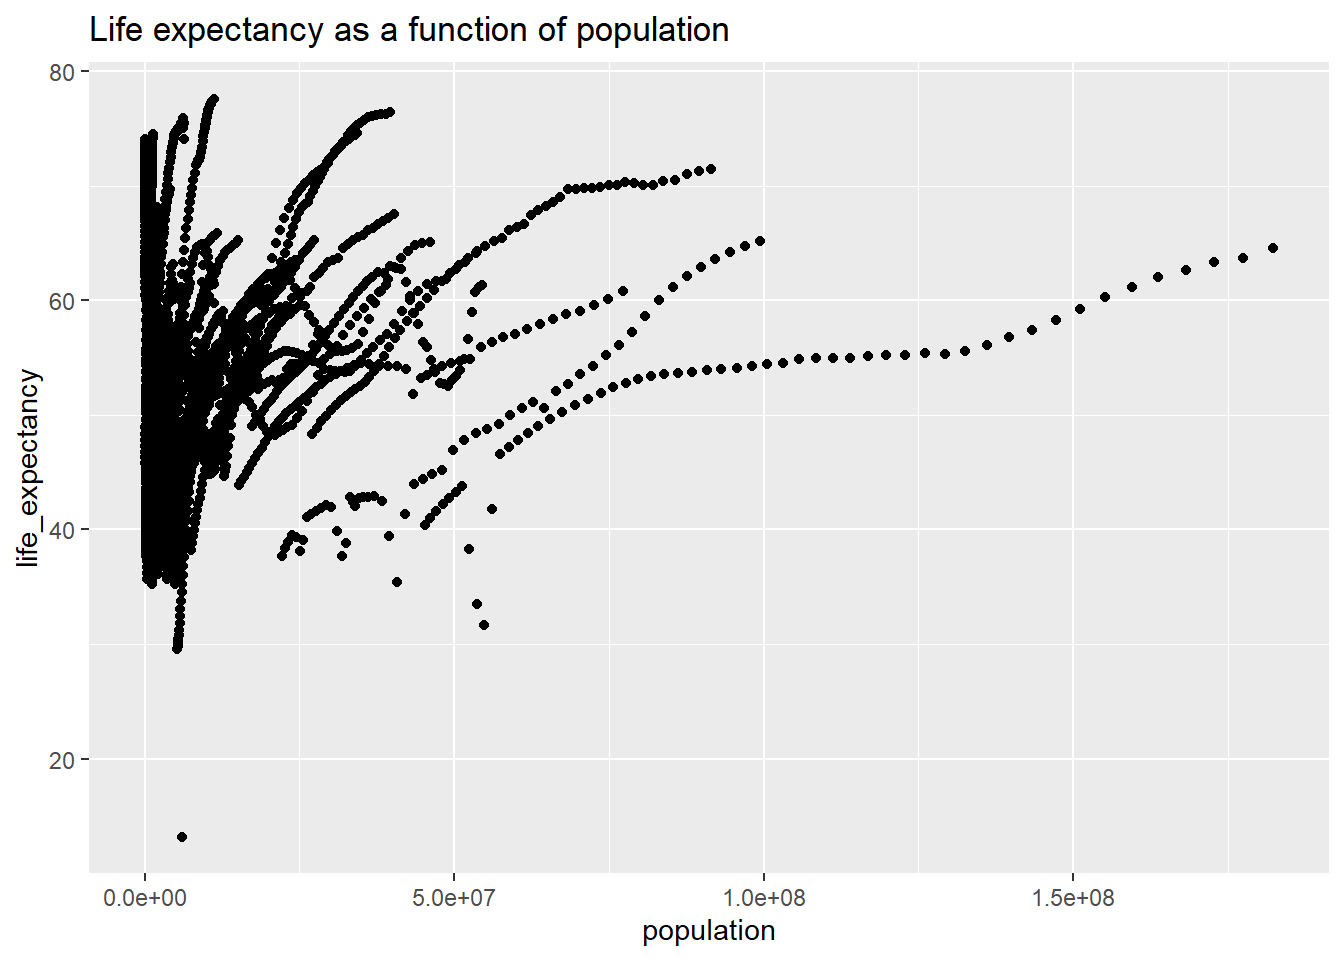
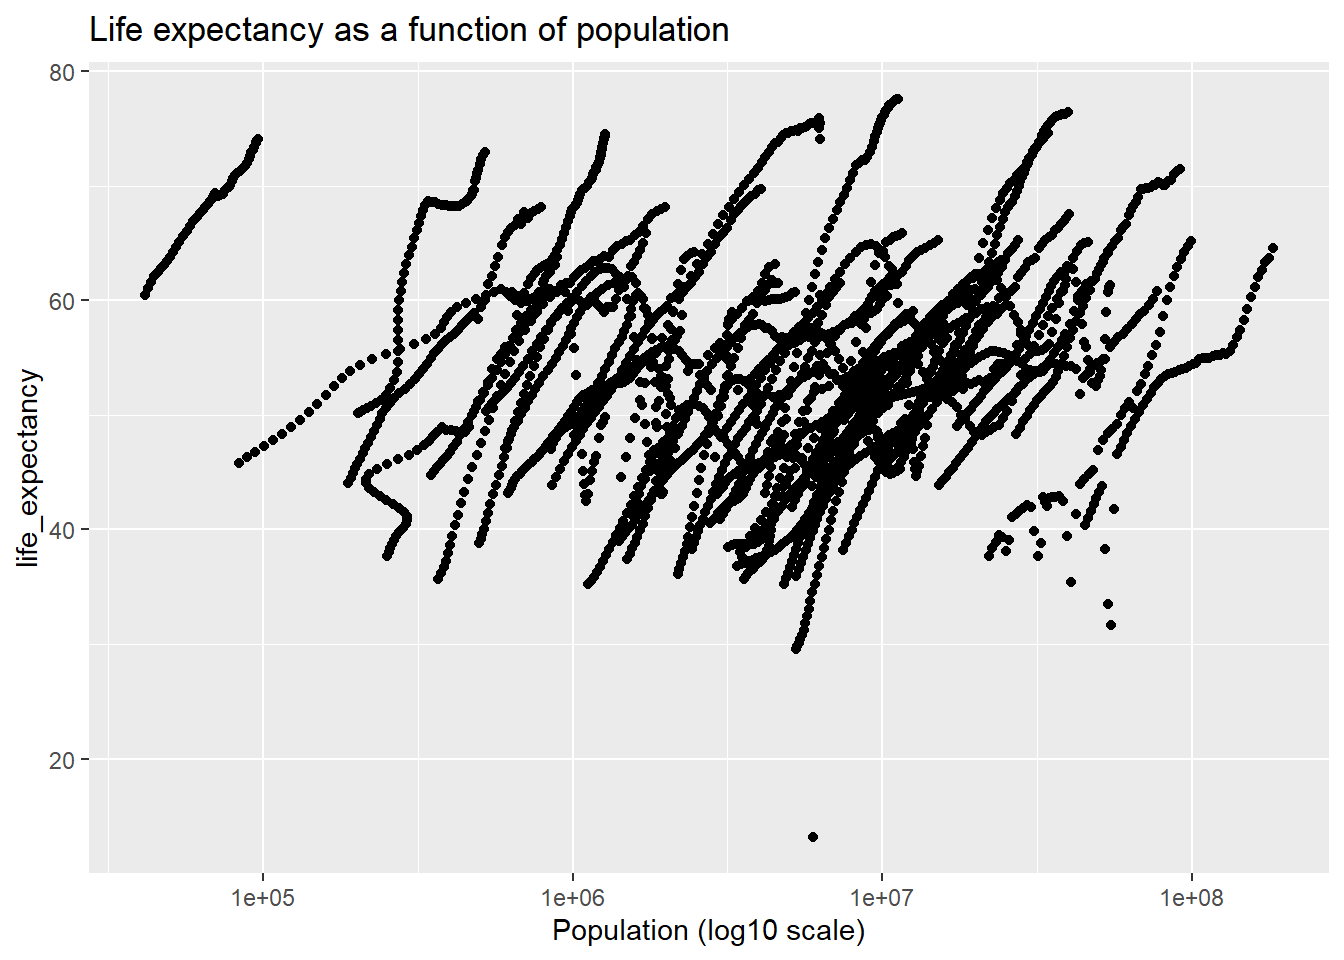
Module 3 part 1, correcting population figures to have log scale for x-axis

diff --git a/docs/coding-exercise/coding-exercise.html b/docs/coding-exercise/coding-exercise.html
@@ -364,8 +364,8 @@ pre > code.sourceCode > span > a:first-child::before { text-decoration: underlin
 </div>
 </div>
 <div class="sourceCode cell-code" id="cb25"><pre class="sourceCode r code-with-copy"><code class="sourceCode r"><span id="cb25-1"><a href="#cb25-1" aria-hidden="true" tabindex="-1"></a><span class="co">#Plotting life expectancy as a function of population</span></span>
-<span id="cb25-2"><a href="#cb25-2" aria-hidden="true" tabindex="-1"></a><span class="fu">ggplot</span>(<span class="at">data=</span>obj2, <span class="fu">aes</span>(<span class="at">x =</span> population, <span class="at">y =</span> life_expectancy)) <span class="sc">+</span> <span class="fu">geom_point</span>() <span class="sc">+</span> </span>
-<span id="cb25-3"><a href="#cb25-3" aria-hidden="true" tabindex="-1"></a>  <span class="fu">labs</span>(<span class="at">title =</span> <span class="st">"Life expectancy as a function of population"</span>)</span></code><button title="Copy to Clipboard" class="code-copy-button"><i class="bi"></i></button></pre></div>
+<span id="cb25-2"><a href="#cb25-2" aria-hidden="true" tabindex="-1"></a><span class="fu">ggplot</span>(<span class="at">data=</span>obj2, <span class="fu">aes</span>(<span class="at">x =</span> population, <span class="at">y =</span> life_expectancy)) <span class="sc">+</span> <span class="fu">geom_point</span>() <span class="sc">+</span>  <span class="fu">scale_x_continuous</span>(<span class="at">trans=</span><span class="st">'log10'</span>) <span class="sc">+</span> </span>
+<span id="cb25-3"><a href="#cb25-3" aria-hidden="true" tabindex="-1"></a>  <span class="fu">labs</span>(<span class="at">title =</span> <span class="st">"Life expectancy as a function of population"</span>, <span class="at">x =</span> <span class="st">"Population (log10 scale)"</span>)</span></code><button title="Copy to Clipboard" class="code-copy-button"><i class="bi"></i></button></pre></div>
 <div class="cell-output cell-output-stderr">
 <pre><code>Warning: Removed 51 rows containing missing values or values outside the scale range
 (`geom_point()`).</code></pre>
@@ -399,8 +399,8 @@ pre > code.sourceCode > span > a:first-child::before { text-decoration: underlin
 </div>
 <div class="sourceCode cell-code" id="cb29"><pre class="sourceCode r code-with-copy"><code class="sourceCode r"><span id="cb29-1"><a href="#cb29-1" aria-hidden="true" tabindex="-1"></a><span class="co">#Plotting life expectancy as a function of population</span></span>
 <span id="cb29-2"><a href="#cb29-2" aria-hidden="true" tabindex="-1"></a><span class="fu">ggplot</span>(<span class="at">data=</span>africadata, <span class="fu">aes</span>(<span class="at">x =</span> population, <span class="at">y =</span> life_expectancy)) <span class="sc">+</span> </span>
-<span id="cb29-3"><a href="#cb29-3" aria-hidden="true" tabindex="-1"></a>  <span class="fu">geom_point</span>(<span class="fu">aes</span>(<span class="at">color =</span> country)) <span class="sc">+</span> </span>
-<span id="cb29-4"><a href="#cb29-4" aria-hidden="true" tabindex="-1"></a>  <span class="fu">labs</span>(<span class="at">title =</span> <span class="st">"Life expectancy as a function of population"</span>)</span></code><button title="Copy to Clipboard" class="code-copy-button"><i class="bi"></i></button></pre></div>
+<span id="cb29-3"><a href="#cb29-3" aria-hidden="true" tabindex="-1"></a>  <span class="fu">geom_point</span>(<span class="fu">aes</span>(<span class="at">color =</span> country)) <span class="sc">+</span> <span class="fu">scale_x_continuous</span>(<span class="at">trans=</span><span class="st">'log10'</span>) <span class="sc">+</span> </span>
+<span id="cb29-4"><a href="#cb29-4" aria-hidden="true" tabindex="-1"></a>  <span class="fu">labs</span>(<span class="at">title =</span> <span class="st">"Life expectancy as a function of population"</span>, <span class="at">x =</span> <span class="st">"Population (log10 scale)"</span>)</span></code><button title="Copy to Clipboard" class="code-copy-button"><i class="bi"></i></button></pre></div>
 <div class="cell-output cell-output-stderr">
 <pre><code>Warning: Removed 51 rows containing missing values or values outside the scale range
 (`geom_point()`).</code></pre>
@@ -541,8 +541,8 @@ pre > code.sourceCode > span > a:first-child::before { text-decoration: underlin
 </div>
 <div class="sourceCode cell-code" id="cb41"><pre class="sourceCode r code-with-copy"><code class="sourceCode r"><span id="cb41-1"><a href="#cb41-1" aria-hidden="true" tabindex="-1"></a><span class="co">#Plotting life expectancy as a function of population</span></span>
 <span id="cb41-2"><a href="#cb41-2" aria-hidden="true" tabindex="-1"></a><span class="fu">ggplot</span>(<span class="at">data=</span>yr2000, <span class="fu">aes</span>(<span class="at">x =</span> population, <span class="at">y =</span> life_expectancy)) <span class="sc">+</span> </span>
-<span id="cb41-3"><a href="#cb41-3" aria-hidden="true" tabindex="-1"></a>  <span class="fu">geom_point</span>() <span class="sc">+</span> </span>
-<span id="cb41-4"><a href="#cb41-4" aria-hidden="true" tabindex="-1"></a>  <span class="fu">labs</span>(<span class="at">title =</span> <span class="st">"Life expectancy as a function of population in 2000"</span>)</span></code><button title="Copy to Clipboard" class="code-copy-button"><i class="bi"></i></button></pre></div>
+<span id="cb41-3"><a href="#cb41-3" aria-hidden="true" tabindex="-1"></a>  <span class="fu">geom_point</span>() <span class="sc">+</span>  <span class="fu">scale_x_continuous</span>(<span class="at">trans=</span><span class="st">'log10'</span>) <span class="sc">+</span></span>
+<span id="cb41-4"><a href="#cb41-4" aria-hidden="true" tabindex="-1"></a>  <span class="fu">labs</span>(<span class="at">title =</span> <span class="st">"Life expectancy as a function of population in 2000"</span>, <span class="at">x =</span> <span class="st">"Population (log10 scale)"</span>)</span></code><button title="Copy to Clipboard" class="code-copy-button"><i class="bi"></i></button></pre></div>
 <div class="cell-output-display">
 <div>
 <figure class="figure">
